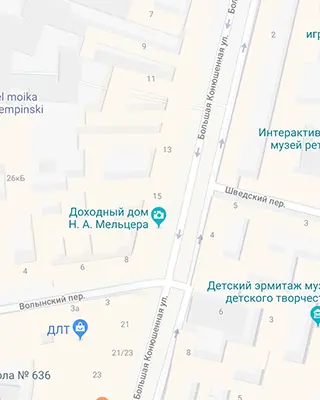
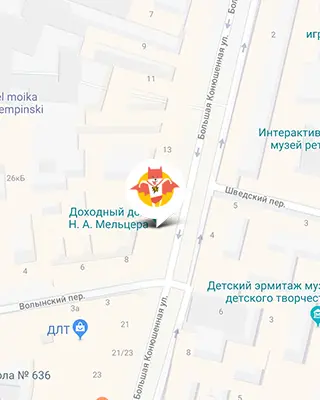
Исправляет появление горизонтального скролла из-за карты и отображение ее в браузерах

Changed region(s): [[0.4062, 0.39, 0.5625, 0.57]]

diff --git a/source/less/blocks/page-footer.less b/source/less/blocks/page-footer.less
@@ -30,6 +30,8 @@
   position: relative;
 
   height: 363px;
+
+  background-color: #f2f2f2;
 }
 
 .page-footer__google-map {
@@ -41,38 +43,18 @@
 }
 
 .page-footer__static-map {
-  position: absolute;
-  top: 0;
-  left: 0;
-
-  width: 320px;
+  width: auto;
   height: 363px;
   margin: 0 auto;
 
   background-color: #f2f2f2;
   background-image: url("../img/bg-map-mobile@1x.png");
   background-repeat: no-repeat;
-  background-position: 0 96%;
+  background-position: 50% 0;
 
   @media (min-resolution: @retina-dppx), (min-resolution: @retina-dpi) {
     background-image: url("../img/bg-map-mobile@2x.png");
-  }
-
-  &::after {
-    content: "";
-
-    position: absolute;
-    z-index: 1;
-    top: 102px;
-    left: 113px;
-
-    width: 94px;
-    height: 127px;
-
-    background-image: url("../img/map-pin.png");
-    background-repeat: no-repeat;
-    background-position: 50% 50%;
-    transform: scale(0.5);
+    background-size: auto 363px;
   }
 }
 
@@ -137,23 +119,15 @@
   }
 
   .page-footer__static-map {
-    width: 768px;
+    width: auto;
     height: 396px;
 
     background-image: url("../img/bg-map-tablet@1x.png");
+    background-position: 50% 0;
 
     @media (min-resolution: @retina-dppx), (min-resolution: @retina-dpi) {
       background-image: url("../img/bg-map-tablet@2x.png");
-    }
-
-    &::after {
-      top: 135px;
-      left: 337px;
-
-      width: 94px;
-      height: 127px;
-
-      transform: scale(1);
+      background-size: auto 396px;
     }
   }
 
@@ -188,7 +162,7 @@
     position: relative;
 
     &--grey {
-      background-color: unset;
+      background-color: transparent;
     }
   }
 
@@ -224,7 +198,7 @@
   .page-footer__map {
     position: absolute;
     z-index: -1;
-    top: -93px;
+    top: -94px;
 
     width: 100%;
   }
@@ -232,20 +206,16 @@
   .page-footer__static-map {
     z-index: -3;
 
-    width: 1440px;
+    width: auto;
     height: 399px;
 
     background-image: url("../img/bg-map-desktop@1x.png");
+    background-position: 50% 0;
 
     @media (min-resolution: @retina-dppx), (min-resolution: @retina-dpi) {
       background-image: url("../img/bg-map-desktop@2x.png");
-      background-position: -1047px 69%;
-    }
-
-    &::after {
-      z-index: -2;
-      top: 139px;
-      left: 1014px;
+      background-position: 50% 0;
+      background-size: auto 399px;
     }
   }
 
